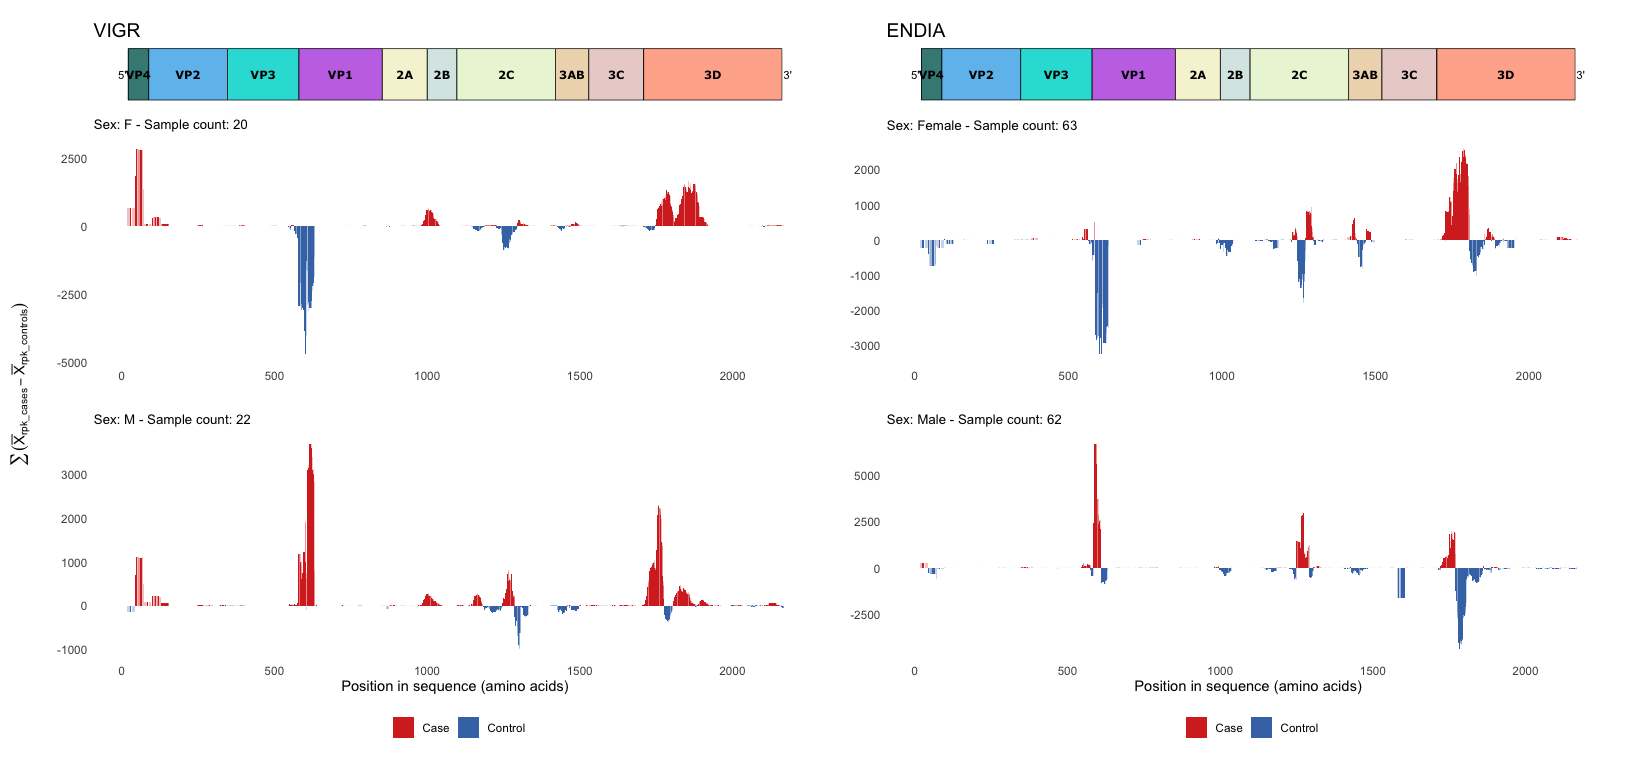
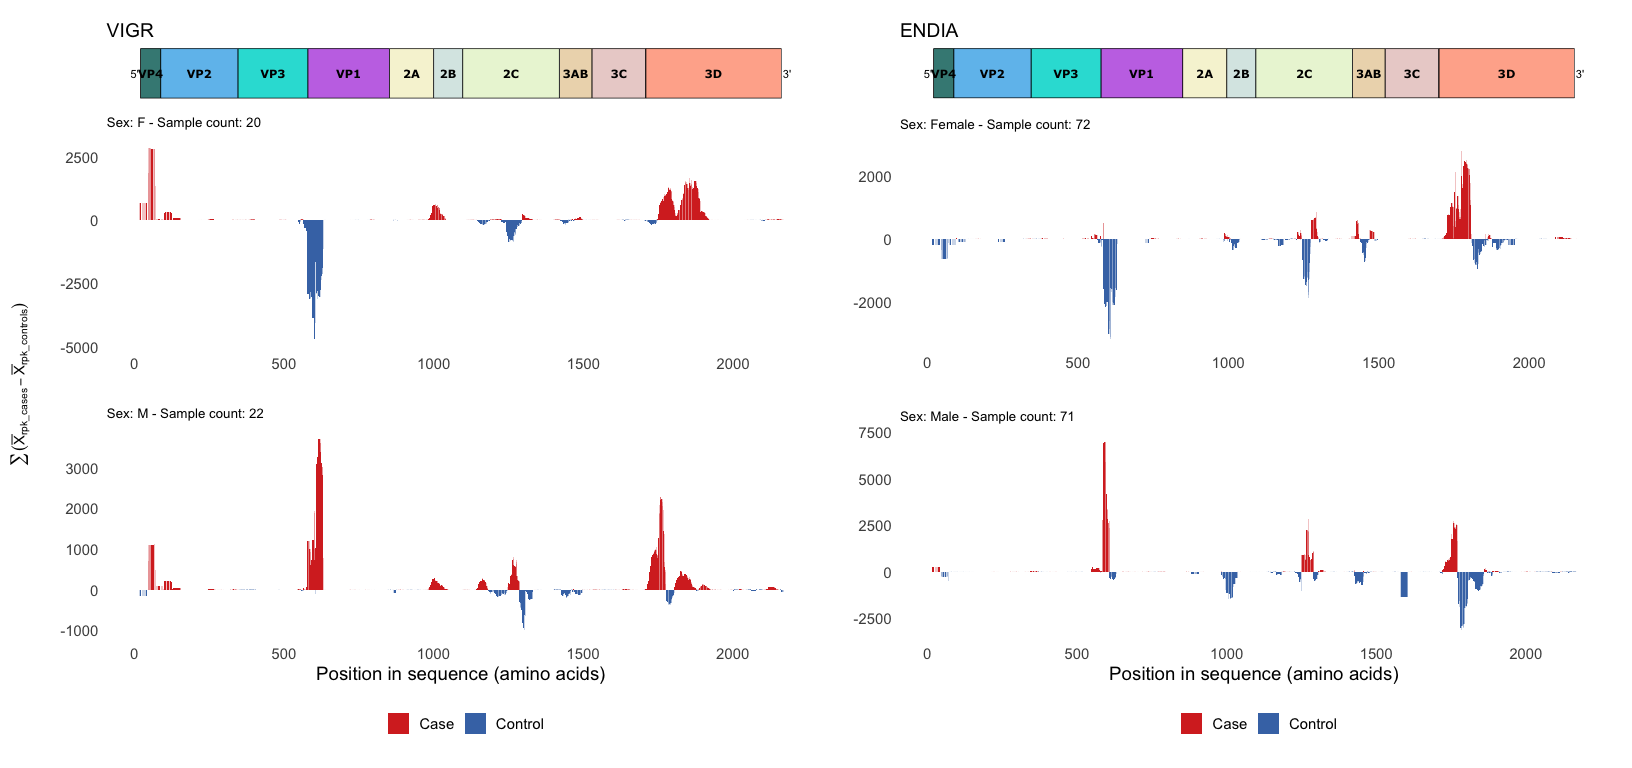
modified sex plot for paper

diff --git a/03_stratify_by_nest_and_sex.md b/03_stratify_by_nest_and_sex.md
@@ -92,7 +92,7 @@ ENDIA_signal_per_nest_plots <- endia_virscan_onset_complete_nests %>%
 ## Sex stratification in both cohorts
 
 ``` r
-endia_sex_stratified <- endia_virscan_onset_complete_nests %>%
+endia_sex_stratified <- endia_virscan_onset %>%
   group_by(infant_sex) %>% 
   group_map(~ .x %>%
     calculate_rpk_fold_change(sample_id, condition, pep_id, abundance, ENDIA_blastp_evB1) %>%
@@ -135,3 +135,64 @@ cohorts_sex_plot_with_yaxis <- wrap_elements(cohorts_sex_plot) +
 ```
 
 ![](03_stratify_by_nest_and_sex_files/figure-gfm/unnamed-chunk-10-1.png)<!-- -->
+
+Same plot but modified for paper
+
+Stack ENDIA plot below VIGR and make y-axis the same for males and
+females in each cohort for comparison purposes
+
+``` r
+### ENDIA
+
+endia_sex_stratified_ms <- endia_virscan_onset %>%
+  group_by(infant_sex) %>% 
+  group_map(~ .x %>%
+    calculate_rpk_fold_change(sample_id, condition, pep_id, abundance, ENDIA_blastp_evB1) %>%
+    calculate_moving_sum(fold_change, 32, 4) %>% 
+          mutate(infant_sex = .y$infant_sex), # return group label back
+    .keep = TRUE)
+
+#make into dataframe to get the y_limit range 
+endia_sex_stratified_combined <- list_rbind(endia_sex_stratified_ms)
+endia_y_limits <- range(endia_sex_stratified_combined$moving_sum, na.rm = TRUE)
+
+#plot
+endia_sex_stratified_plots <- endia_sex_stratified_ms %>%
+  map(~ ms_plot_clean(.x) + ylim(endia_y_limits))
+
+endia_sex_plots_same_y <- wrap_plots(EV_B1_plot + ggtitle("ENDIA"), wrap_plots(endia_sex_stratified_plots, ncol = 1) +
+             labs(x = "Position in sequence (amino acids)")  + theme(legend.position = "bottom"), ncol = 1, heights = c(0.3, 3)) 
+
+### VIGR 
+vigr_sex_stratified_ms <- vigr_virscan_metadata %>%
+  group_by(Sex) %>% 
+  group_map(~ .x %>%
+    calculate_rpk_fold_change(sample_id, Condition, pep_id, abundance, VIGR_blastp_evB1) %>%
+    calculate_moving_sum(fold_change, 32, 4) %>%
+     mutate(Sex = .y$Sex),
+    .keep = TRUE)
+
+#make into dataframe to get the y_limit range 
+vigr_sex_stratified_combined <- list_rbind(vigr_sex_stratified_ms)
+vigr_y_limits <- range(vigr_sex_stratified_combined$moving_sum, na.rm = TRUE)
+
+#plot 
+vigr_sex_stratified_ms_plots <- vigr_sex_stratified_ms %>%
+  map(~ ms_plot_clean(.x) + ylim(vigr_y_limits))
+
+vigr_sex_plots_same_y <- wrap_plots(EV_B1_plot + ggtitle("VIGR"), wrap_plots(vigr_sex_stratified_ms_plots, ncol = 1) +
+             labs(x = "") + theme(legend.position = "none"), ncol = 1, heights = c(0.3, 3)) &
+  theme(plot.margin = margin(5.5, 5.5, 5.5, 0))
+
+### Combine ENDIA and VIGR plots 
+
+cohorts_sex_plot_same_y <- wrap_plots(vigr_sex_plots_same_y, endia_sex_plots_same_y, ncol = 1)
+
+cohorts_sex_plot_same_yaxis_stacked <- wrap_elements(cohorts_sex_plot_same_y) +
+  labs(tag = expression(sum((bar(X)[rpk_cases] - bar(X)[rpk_controls])))) +
+  theme(
+    plot.tag = element_text(size = rel(1.5), angle = 90),
+    plot.tag.position = "left")
+```
+
+![](03_stratify_by_nest_and_sex_files/figure-gfm/unnamed-chunk-13-1.png)<!-- -->
